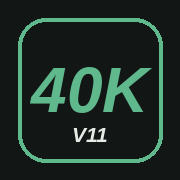
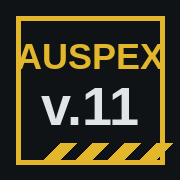
Add files via upload

diff --git a/index.html b/index.html
@@ -3,33 +3,29 @@
 <head>
 <meta charset="utf-8">
 <meta name="viewport" content="width=device-width,initial-scale=1,viewport-fit=cover">
-<title>Logigramme 40K V11</title>
-<meta name="theme-color" content="#121715">
+<title>Auspex v.11</title>
+<meta name="theme-color" content="#101315">
 <link rel="manifest" href="manifest.webmanifest">
 <link rel="apple-touch-icon" href="apple-touch-icon.png">
 <meta name="apple-mobile-web-app-capable" content="yes">
 <meta name="mobile-web-app-capable" content="yes">
-<meta name="apple-mobile-web-app-title" content="40K V11">
+<meta name="apple-mobile-web-app-title" content="Auspex v.11">
 <meta name="apple-mobile-web-app-status-bar-style" content="black-translucent">
 
 <link rel="preconnect" href="https://fonts.googleapis.com">
 <link rel="preconnect" href="https://fonts.gstatic.com" crossorigin>
-<link rel="stylesheet" href="https://fonts.googleapis.com/css2?family=Big+Shoulders+Display:wght@700;800&family=IBM+Plex+Sans:wght@400;500;600&family=IBM+Plex+Mono:wght@500;600&display=swap">
+<link rel="stylesheet" href="https://fonts.googleapis.com/css2?family=Barlow:wght@400;500;600;700&family=IBM+Plex+Mono:wght@500;600&family=Saira+Condensed:wght@500;700;800&family=Saira+Stencil+One&display=swap">
 <style>
 /* Concept : table de commandement. Un fil vertical de décisions (losange = question, carré = étape) qui se construit au fil des réponses, avec un aide-mémoire de chiffres clés à côté. */
 :root{
-  --bg:#eceee9; --surface:#f8f9f6; --ink:#1a211d; --muted:#5b665f; --line:#cdd3cb;
-  --accent:#2c6a4e; --accent-ink:#ffffff; --brass:#9a7414; --alert:#b3412a; --alert-bg:#f6e3dd; --tip-bg:#e3eee8;
-  --font-display:'Big Shoulders Display','Arial Narrow',Impact,sans-serif;
-  --font-body:'IBM Plex Sans',system-ui,-apple-system,'Segoe UI',sans-serif;
+  --bg:#101315; --surface:#1a1f22; --ink:#dfe5e6; --muted:#8c9a9e; --line:#2f383c;
+  --accent:#e3b72c; --accent-ink:#14110a; --brass:#9fb8c2; --alert:#e2543a; --alert-bg:#2a1612; --tip-bg:#232414;
+  --font-display:'Saira Condensed','Arial Narrow',Impact,sans-serif;
+  --font-stencil:'Saira Stencil One','Saira Condensed',Impact,sans-serif;
+  --font-body:'Barlow',system-ui,-apple-system,'Segoe UI',sans-serif;
   --font-mono:'IBM Plex Mono',ui-monospace,Menlo,Consolas,monospace;
+  color-scheme:dark;
 }
-@media (prefers-color-scheme:dark){:root:not([data-theme="light"]){
-  --bg:#121715; --surface:#1b231f; --ink:#e6ebe6; --muted:#9aa89f; --line:#2f3b35;
-  --accent:#5fb98d; --accent-ink:#0e1612; --brass:#d2ad4a; --alert:#e8836b; --alert-bg:#3a2520; --tip-bg:#1f3028; color-scheme:dark}}
-:root[data-theme="dark"]{
-  --bg:#121715; --surface:#1b231f; --ink:#e6ebe6; --muted:#9aa89f; --line:#2f3b35;
-  --accent:#5fb98d; --accent-ink:#0e1612; --brass:#d2ad4a; --alert:#e8836b; --alert-bg:#3a2520; --tip-bg:#1f3028; color-scheme:dark}
 body{background:var(--bg);color:var(--ink);font-family:var(--font-body);font-size:16px;line-height:1.5;
   padding-block:20px 48px;padding-left:max(16px,env(safe-area-inset-left,0px));padding-right:max(16px,env(safe-area-inset-right,0px))}
 .wrap{max-width:1040px;margin:0 auto}
@@ -38,7 +34,7 @@ h1{font-family:var(--font-display);font-weight:800;font-size:clamp(2rem,6vw,3rem
 h1 span{color:var(--accent)}
 .sub{color:var(--muted);margin:0;max-width:60ch}
 nav{display:flex;gap:6px;flex-wrap:wrap;margin-bottom:20px}
-nav button{font:600 .95rem var(--font-body);padding:10px 14px;border:1.5px solid var(--line);background:var(--surface);color:var(--ink);border-radius:4px;cursor:pointer}
+nav button{font:600 .95rem var(--font-body);padding:10px 14px;border:1.5px solid var(--line);background:var(--surface);color:var(--ink);border-radius:0;cursor:pointer}
 nav button[aria-selected="true"]{background:var(--accent);color:var(--accent-ink);border-color:var(--accent)}
 button:focus-visible,summary:focus-visible{outline:3px solid var(--brass);outline-offset:2px}
 .layout{display:grid;grid-template-columns:minmax(0,1fr) 300px;gap:24px;align-items:start}
@@ -57,25 +53,25 @@ button:focus-visible,summary:focus-visible{outline:3px solid var(--brass);outlin
 .past .ch{color:var(--accent);font-weight:600;font-size:.92rem}
 .past .nt{color:var(--muted);font-size:.9rem}
 .past button:hover .tt{text-decoration:underline}
-.card{background:var(--surface);border:1.5px solid var(--line);border-radius:6px;padding:18px;margin-bottom:6px}
+.card{background:var(--surface);border:1.5px solid var(--line);border-radius:0;padding:18px;margin-bottom:6px}
 .card .ph{font:600 .75rem var(--font-mono);color:var(--brass);text-transform:uppercase;letter-spacing:.1em}
 .card h2{font-family:var(--font-display);font-weight:800;font-size:1.7rem;line-height:1.1;letter-spacing:.02em;text-transform:uppercase;margin:4px 0 10px;text-wrap:balance}
 .card ul{margin:0 0 12px;padding-left:1.1rem;display:flex;flex-direction:column;gap:6px}
 .card p{margin:0 0 12px}
-.box{padding:10px 12px;border-radius:4px;margin:0 0 12px;font-size:.95rem}
+.box{padding:10px 12px;border-radius:0;margin:0 0 12px;font-size:.95rem}
 .box.warn{background:var(--alert-bg);border-left:4px solid var(--alert)}
 .box.tip{background:var(--tip-bg);border-left:4px solid var(--accent)}
 .box b{font:600 .72rem var(--font-mono);text-transform:uppercase;letter-spacing:.08em;display:block;margin-bottom:2px}
 .opts{display:flex;flex-direction:column;gap:8px;margin-top:6px}
-.opts button,.act{font:600 1rem var(--font-body);text-align:left;padding:12px 14px;border-radius:4px;border:1.5px solid var(--accent);background:var(--surface);color:var(--ink);cursor:pointer;display:flex;justify-content:space-between;gap:10px;align-items:center}
+.opts button,.act{font:600 1rem var(--font-body);text-align:left;padding:12px 14px;border-radius:0;border:1.5px solid var(--accent);background:var(--surface);color:var(--ink);cursor:pointer;display:flex;justify-content:space-between;gap:10px;align-items:center}
 .opts button:hover,.act:hover{background:var(--accent);color:var(--accent-ink)}
 .opts button small{font-weight:400;opacity:.85}
 .act.primary{background:var(--accent);color:var(--accent-ink);justify-content:center}
 .tools{display:flex;gap:8px;flex-wrap:wrap;margin-top:10px}
-.tools button{font:500 .88rem var(--font-body);padding:7px 10px;border:1.5px solid var(--line);background:transparent;color:var(--muted);border-radius:4px;cursor:pointer}
+.tools button{font:500 .88rem var(--font-body);padding:7px 10px;border:1.5px solid var(--line);background:transparent;color:var(--muted);border-radius:0;cursor:pointer}
 .tools button:disabled{opacity:.4;cursor:default}
 .end{border-color:var(--accent)}
-aside{background:var(--surface);border:1.5px solid var(--line);border-radius:6px;padding:16px}
+aside{background:var(--surface);border:1.5px solid var(--line);border-radius:0;padding:16px}
 aside h3{font-family:var(--font-display);font-weight:800;font-size:1.25rem;text-transform:uppercase;letter-spacing:.04em;margin:0 0 8px}
 dl{margin:0;display:grid;grid-template-columns:1fr auto;gap:6px 12px;font-size:.92rem}
 dt{color:var(--muted)} dd{margin:0;font:600 .9rem var(--font-mono);text-align:right;font-variant-numeric:tabular-nums}
@@ -86,24 +82,24 @@ details{margin-top:14px} summary{cursor:pointer;font-weight:600}
 footer{margin-top:28px;color:var(--muted);font-size:.85rem;max-width:80ch}
 footer a{color:var(--accent)}
 /* Mode Hunter */
-.modebar{display:flex;gap:0;margin-bottom:16px;border:1.5px solid var(--accent);border-radius:4px;width:max-content;max-width:100%;overflow:hidden}
+.modebar{display:flex;gap:0;margin-bottom:16px;border:1.5px solid var(--accent);border-radius:0;width:max-content;max-width:100%;overflow:hidden}
 .modebar button{font:600 .95rem var(--font-body);padding:10px 16px;border:0;background:var(--surface);color:var(--ink);cursor:pointer}
 .modebar button[aria-pressed="true"]{background:var(--accent);color:var(--accent-ink)}
 .hunter h2{font-family:var(--font-display);font-weight:800;font-size:1.7rem;text-transform:uppercase;letter-spacing:.02em;margin:6px 0 4px}
 .hunter h3{font-family:var(--font-display);font-weight:800;font-size:1.25rem;text-transform:uppercase;letter-spacing:.04em;margin:22px 0 8px}
 .htabs{display:flex;gap:6px;flex-wrap:wrap;margin-bottom:14px}
-.htabs button{font:600 .9rem var(--font-body);padding:8px 12px;border:1.5px solid var(--line);background:var(--surface);color:var(--ink);border-radius:4px;cursor:pointer}
+.htabs button{font:600 .9rem var(--font-body);padding:8px 12px;border:1.5px solid var(--line);background:var(--surface);color:var(--ink);border-radius:0;cursor:pointer}
 .htabs button[aria-pressed="true"]{border-color:var(--brass);color:var(--brass);box-shadow:inset 0 -3px 0 var(--brass)}
-.hunter button.primary{background:var(--accent);color:var(--accent-ink);border:1.5px solid var(--accent);border-radius:4px;padding:9px 14px;font:600 .95rem var(--font-body);cursor:pointer}
+.hunter button.primary{background:var(--accent);color:var(--accent-ink);border:1.5px solid var(--accent);border-radius:0;padding:9px 14px;font:600 .95rem var(--font-body);cursor:pointer}
 .hunter button.big{width:100%;margin-top:14px;padding:13px}
-.hunter button.ghost{background:transparent;color:var(--muted);border:1.5px solid var(--line);border-radius:4px;padding:7px 10px;font:500 .88rem var(--font-body);cursor:pointer}
-.hunter input[type=number],.hunter input[type=text],.hunter select,.hunter textarea{font:500 .95rem var(--font-body);color:var(--ink);background:var(--bg);border:1.5px solid var(--line);border-radius:4px;padding:7px 8px;max-width:100%}
+.hunter button.ghost{background:transparent;color:var(--muted);border:1.5px solid var(--line);border-radius:0;padding:7px 10px;font:500 .88rem var(--font-body);cursor:pointer}
+.hunter input[type=number],.hunter input[type=text],.hunter select,.hunter textarea{font:500 .95rem var(--font-body);color:var(--ink);background:var(--bg);border:1.5px solid var(--line);border-radius:0;padding:7px 8px;max-width:100%}
 .hunter textarea{width:100%;margin-top:8px}
 .hunter input:focus-visible,.hunter select:focus-visible,.hunter textarea:focus-visible,.hunter button:focus-visible{outline:3px solid var(--brass);outline-offset:2px}
-.muted{color:var(--muted)} .small{font-size:.85rem} .empty{padding:18px;border:1.5px dashed var(--line);border-radius:6px;color:var(--muted)}
+.muted{color:var(--muted)} .small{font-size:.85rem} .empty{padding:18px;border:1.5px dashed var(--line);border-radius:0;color:var(--muted)}
 .addbox{display:flex;gap:8px;flex-wrap:wrap;margin:12px 0}
 .addbox select{flex:1 1 180px;min-width:0}
-.ucard{background:var(--surface);border:1.5px solid var(--line);border-radius:6px;padding:14px;margin:10px 0}
+.ucard{background:var(--surface);border:1.5px solid var(--line);border-radius:0;padding:14px;margin:10px 0}
 .uhead{display:flex;gap:8px;align-items:center;flex-wrap:wrap}
 .ulabel{flex:1 1 200px;min-width:0;font-weight:600}
 .upts-lab{color:var(--muted);font-size:.85rem}
@@ -127,10 +123,10 @@ footer a{color:var(--accent)}
 .rtab td.r,.rtab th.r,.dtab td.r{text-align:right;font-variant-numeric:tabular-nums}
 .rtab tr.dim td{color:var(--muted)}
 .summary{display:grid;grid-template-columns:repeat(auto-fit,minmax(150px,1fr));gap:10px;margin:10px 0}
-.stat{background:var(--surface);border:1.5px solid var(--line);border-radius:6px;padding:12px}
+.stat{background:var(--surface);border:1.5px solid var(--line);border-radius:0;padding:12px}
 .stat .big{font:800 1.9rem var(--font-display);letter-spacing:.02em} .stat .acc{color:var(--accent)}
-.stratbox{background:var(--tip-bg);border-left:4px solid var(--accent);border-radius:4px;padding:10px 12px;margin:10px 0;font-size:.95rem}
-.warnbox{background:var(--alert-bg);border-left:4px solid var(--alert);border-radius:4px;padding:10px 12px;margin:10px 0;font-size:.95rem}
+.stratbox{background:var(--tip-bg);border-left:4px solid var(--accent);border-radius:0;padding:10px 12px;margin:10px 0;font-size:.95rem}
+.warnbox{background:var(--alert-bg);border-left:4px solid var(--alert);border-radius:0;padding:10px 12px;margin:10px 0;font-size:.95rem}
 .thead{display:flex;align-items:center;gap:8px;flex-wrap:wrap;margin-bottom:6px}
 .rank{font:700 .85rem var(--font-mono);color:var(--brass)}
 .tags{display:flex;gap:6px;flex-wrap:wrap}
@@ -138,19 +134,34 @@ footer a{color:var(--accent)}
 .tag.hot{border-color:var(--alert);color:var(--alert)}
 .hrow{display:grid;grid-template-columns:minmax(0,1.3fr) minmax(0,1.5fr) 90px 52px;gap:8px;align-items:center;padding:4px 0}
 .hn{font-weight:600;min-width:0}
-.bar{height:8px;background:var(--line);border-radius:4px;overflow:hidden;display:block}
+.bar{height:8px;background:var(--line);border-radius:0;overflow:hidden;display:block}
 .bar i{display:block;height:100%;background:var(--accent)}
 .hv{text-align:right;font:600 .85rem var(--font-mono)}
 .matrix{margin-top:18px}
 @media(max-width:560px){.hrow{grid-template-columns:minmax(0,1fr) 70px 46px}.hrow .hm{display:none}}
 @media(prefers-reduced-motion:no-preference){.card{animation:in .18s ease-out}@keyframes in{from{opacity:.4;transform:translateY(4px)}}}
+
+/* Thème Tranchée : acier, pochoir et bandes de danger */
+h1{font-family:var(--font-stencil);font-weight:400;text-transform:none;letter-spacing:.03em}
+h1 span{color:var(--accent)}
+.card h2,.hunter h2,.hunter h3,aside h3{letter-spacing:.05em}
+header{border-bottom:2px solid var(--accent);padding-bottom:12px}
+.importp{border:2px solid var(--accent);border-left-width:10px;background:#17140a;margin:14px 0 22px}
+.importp>summary{padding:13px 12px;font:700 1rem var(--font-body);color:#f4d76a;letter-spacing:.02em}
+.importp>*:not(summary){margin-left:12px;margin-right:12px}
+.importp>.muted{margin-top:6px}
+.hunter .importp>textarea{box-sizing:border-box;width:calc(100% - 24px)!important}
+.importp>.addbox{margin-top:8px}
+.importp>.addbox input[type=file]{max-width:100%;color:var(--muted)}
+.importp::after{content:"";display:block;height:7px;margin-top:12px;background:repeating-linear-gradient(-45deg,var(--accent) 0 10px,#17140a 10px 20px)}
+.hunter .unit,.hunter .ucard{border-top:3px solid var(--accent)}
 </style>
 </head>
 <body>
 
 <div class="wrap">
   <header>
-    <h1>Logigramme <span>40K</span> · V11</h1>
+    <h1>Auspex <span>v.11</span></h1>
     <p class="sub">Répondez aux questions, la page vous guide dans le tour, les attaques et les décisions. Cliquez sur une étape passée pour revenir en arrière.</p>
   </header>
   <div class="modebar" id="modebar" role="group" aria-label="Mode"></div>

diff --git a/hunter.js b/hunter.js
@@ -345,7 +345,7 @@ async function importText(text, side, fid) {
   return out;
 }
 function importPanel(side, onDone) {
-  const d = el('details', 'custom');
+  const d = el('details', 'custom importp');
   d.appendChild(el('summary', '', 'Importer une liste d’armée (fichier ou texte collé)'));
   d.appendChild(el('p', 'muted', 'Accepte un export JSON de New Recruit / BattleScribe (la faction est lue dans le fichier) ou une liste en texte du type « Nom d’unité (120 points) ». Pour le texte, choisissez d’abord la faction.'));
   const row = el('div', 'addbox');

diff --git a/sw.js b/sw.js
@@ -1,5 +1,5 @@
 /* Service worker : réseau d'abord (toujours la dernière version), cache en secours hors ligne. */
-const CACHE = 'fanhammer-v1';
+const CACHE = 'fanhammer-v2';
 const CORE = ['./', 'index.html', 'engine.js', 'hunter.js', 'manifest.webmanifest', 'icon-192.png', 'icon-512.png', 'data/index.json', 'data/mon_armee.json'];
 self.addEventListener('install', function (e) {
   e.waitUntil((async function () {

diff --git a/README.md b/README.md
@@ -1,4 +1,4 @@
-# Logigramme 40K V11 + Mode Hunter
+# Auspex v.11
 
 Aide de jeu Warhammer 40 000 (11e édition) : logigrammes de tour, d'attaque, de tactique et de stratégie, plus un « Mode Hunter » qui estime quelle unité de ton armée doit chasser quelle unité adverse.
 
